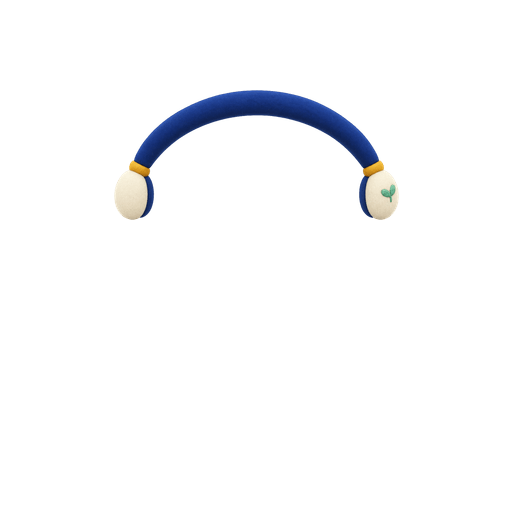
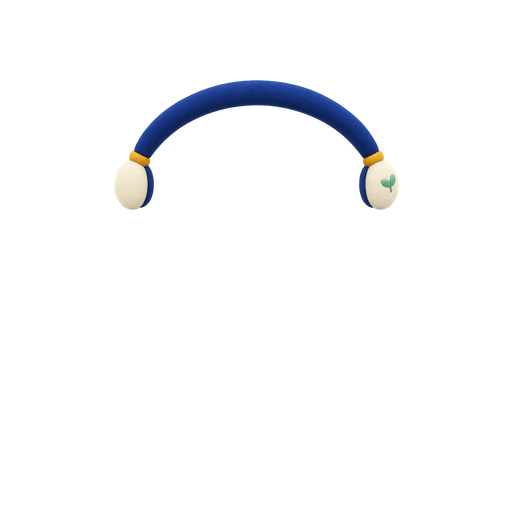
[Feat] 전신 의상은 머리만 있는 개구리 위에 입힌다 - 가디건 후드티 비옷 교복 넷은 소매와 바짓단이 그려져 있어 뒤에 전신 개구리를 두면 원래 팔다리가 옷 밖으로 삐져나왔다 아이템에 fullBody 를 두고 하나라도 입고 있으면 본체를 BASE_HEAD 로 바꿔 깐다 학사복은 기존 위치가 맞아 그대로다

Changed region(s): [[0.2188, 0.1562, 0.7812, 0.4375]]

diff --git a/test/screen/user/frog_character_test.dart b/test/screen/user/frog_character_test.dart
@@ -76,6 +76,55 @@ void main() {
     });
   }
 
+  group('전신 의상', () {
+    // 소매와 바짓단이 그려진 옷은 뒤에 전신 개구리를 두면 원래 팔다리가
+    // 옷 밖으로 삐져나온다. 그럴 때는 본체를 머리만 있는 그림으로 바꾼다.
+    test('입으면 본체가 머리만 있는 그림으로 바뀐다', () {
+      final layers = CosmeticMockData.loadout.resolveLayers(
+        equippedOverride: const {'OUTFIT': 'outfit_cardigan'},
+      );
+
+      expect(
+        layers.first.imageUrl,
+        CosmeticLoadoutModel.defaultBaseHeadImageUrl,
+      );
+    });
+
+    test('전신이 아닌 옷은 본체를 그대로 쓴다', () {
+      final layers = CosmeticMockData.loadout.resolveLayers(
+        equippedOverride: const {'OUTFIT': 'outfit_graduate'},
+      );
+
+      expect(layers.first.imageUrl, CosmeticLoadoutModel.defaultBaseImageUrl);
+    });
+
+    test('아무것도 안 입으면 본체를 그대로 쓴다', () {
+      final layers = CosmeticMockData.loadout.resolveLayers(
+        equippedOverride: const {},
+      );
+
+      expect(layers.first.imageUrl, CosmeticLoadoutModel.defaultBaseImageUrl);
+    });
+
+    test('전신 의상에 모자를 같이 써도 본체만 바뀐다', () {
+      final layers = CosmeticMockData.loadout.resolveLayers(
+        equippedOverride: const {
+          'OUTFIT': 'outfit_hoodie',
+          'HEAD': 'hat_beanie',
+        },
+      );
+
+      expect(
+        layers.first.imageUrl,
+        CosmeticLoadoutModel.defaultBaseHeadImageUrl,
+      );
+      expect(
+        [for (final layer in layers) layer.itemKey],
+        [null, 'outfit_hoodie', 'hat_beanie'],
+      );
+    });
+  });
+
   group('레이어 겹치는 순서', () {
     test('layerOrder 오름차순으로 뒤에서 앞 순서로 나온다', () {
       final layers = CosmeticMockData.loadout.resolveLayers(

diff --git a/lib/Screen/Cosmetic/Mock/CosmeticMockData.dart b/lib/Screen/Cosmetic/Mock/CosmeticMockData.dart
@@ -87,7 +87,7 @@ class CosmeticMockData {
     _item('hat_beanie', 'HEAD', '비니', level: 6),
     _item('bg_study', 'BACKGROUND', '공부방', level: 7),
     _item('bag_mini_backpack', 'BAG', '미니 백팩', level: 8),
-    _item('outfit_cardigan', 'OUTFIT', '가디건', level: 9),
+    _item('outfit_cardigan', 'OUTFIT', '가디건', level: 9, fullBody: true),
     _item('prop_study', 'HAND', '공부 소품', level: 10),
     _item('glasses_sun', 'FACE', '선글라스', level: 11),
     _item('hat_bucket', 'HEAD', '버킷햇', level: 12),
@@ -104,9 +104,9 @@ class CosmeticMockData {
     _item('bowtie', 'NECK', '나비넥타이'),
     _item('neck_medal', 'NECK', '메달'),
     _item('neck_camera', 'NECK', '카메라'),
-    _item('outfit_school', 'OUTFIT', '교복'),
-    _item('outfit_hoodie', 'OUTFIT', '후드티'),
-    _item('outfit_raincoat', 'OUTFIT', '비옷'),
+    _item('outfit_school', 'OUTFIT', '교복', fullBody: true),
+    _item('outfit_hoodie', 'OUTFIT', '후드티', fullBody: true),
+    _item('outfit_raincoat', 'OUTFIT', '비옷', fullBody: true),
     _item('bag_waist_pouch', 'BAG', '허리 가방'),
     _item('bag_crossbody_satchel', 'BAG', '크로스백'),
     _item('head_earmuffs_winter', 'HEAD', '겨울 귀마개'),
@@ -134,6 +134,7 @@ class CosmeticMockData {
     String nameKo, {
     int? level,
     String? setId,
+    bool fullBody = false,
   }) {
     return {
       'itemKey': itemKey,
@@ -143,6 +144,9 @@ class CosmeticMockData {
       'requiredLevel': level,
       'setId': setId,
       'conflictsWith': const <String>[],
+      // 소매와 바짓단이 그려진 옷이다. 뒤에 전신 개구리를 두면 원래 팔다리가
+      // 옷 밖으로 삐져나와서, 본체를 머리만 있는 그림으로 바꿔 깐다.
+      'fullBody': fullBody,
     };
   }
 }

diff --git a/lib/Model/Cosmetic/CosmeticLoadoutModel.dart b/lib/Model/Cosmetic/CosmeticLoadoutModel.dart
@@ -44,6 +44,13 @@ class CosmeticLoadoutModel {
   /// **기본값이지 기준값이 아니다.** 서버가 [baseImageUrl] 을 주면 그쪽을 쓴다.
   static const String defaultBaseImageUrl = 'assets/Cosmetic/BASE.png';
 
+  /// 머리만 있는 개구리.
+  ///
+  /// 전신 의상([CosmeticItemModel.fullBody])을 입었을 때 [defaultBaseImageUrl]
+  /// 대신 깐다. 그 옷에는 소매와 바짓단이 이미 그려져 있어서, 전신 개구리를
+  /// 뒤에 두면 원래 팔다리가 옷 밖으로 삐져나온다.
+  static const String defaultBaseHeadImageUrl = 'assets/Cosmetic/BASE_HEAD.png';
+
   /// 고정 포즈 개구리 그림.
   final String baseImageUrl;
 
@@ -201,6 +208,16 @@ class CosmeticLoadoutModel {
   }) {
     final current = equippedOverride ?? equipped;
 
+    // 전신 의상을 입고 있으면 본체를 머리만 있는 그림으로 바꾼다. 자리마다
+    // 하나씩만 걸리므로 그런 옷은 많아야 하나다.
+    final wearsFullBody = current.values.any(
+      (itemKey) => itemOf(itemKey)?.fullBody ?? false,
+    );
+    final resolvedBaseImageUrl =
+        wearsFullBody && baseImageUrl == defaultBaseImageUrl
+            ? defaultBaseHeadImageUrl
+            : baseImageUrl;
+
     // (층, 같은 층 안에서의 순서) 로 정렬한다. Dart 의 sort 는 안정 정렬이
     // 아니라서 같은 값이 나오면 순서가 흐트러진다. 순번을 직접 매긴다.
     final entries = <_OrderedLayer>[];
@@ -213,7 +230,7 @@ class CosmeticLoadoutModel {
         tieBreak: 1,
         sequence: sequence++,
         layer: CosmeticLayerModel(
-          imageUrl: baseImageUrl,
+          imageUrl: resolvedBaseImageUrl,
           layerOrder: resolvedBaseLayerOrder,
         ),
       ),

diff --git a/lib/Model/Cosmetic/CosmeticItemModel.dart b/lib/Model/Cosmetic/CosmeticItemModel.dart
@@ -37,6 +37,13 @@ class CosmeticItemModel {
   /// 지금 사용자가 가지고 있는지.
   final bool owned;
 
+  /// 개구리 몸 전체를 덮는 의상인지.
+  ///
+  /// 소매와 바짓단까지 그려져 있어서, 뒤에 전신 개구리를 두면 원래 팔다리가
+  /// 옷 밖으로 삐져나온다. 그래서 이런 옷을 입었을 때는 본체를 머리만 있는
+  /// [CosmeticLoadoutModel.defaultBaseHeadImageUrl] 로 바꿔 깐다.
+  final bool fullBody;
+
   const CosmeticItemModel({
     required this.itemKey,
     required this.slot,
@@ -46,6 +53,7 @@ class CosmeticItemModel {
     required this.setId,
     required this.conflictsWith,
     required this.owned,
+    this.fullBody = false,
   });
 
   /// 한 건을 읽는다. 키나 슬롯이 없으면 쓸 수 없는 줄이라 null 이다.
@@ -70,6 +78,7 @@ class CosmeticItemModel {
       setId: setId is String && setId.isNotEmpty ? setId : null,
       conflictsWith: _asStringList(json['conflictsWith']),
       owned: json['owned'] == true,
+      fullBody: json['fullBody'] == true,
     );
   }
 
@@ -95,6 +104,7 @@ class CosmeticItemModel {
       setId: setId,
       conflictsWith: conflictsWith,
       owned: owned ?? this.owned,
+      fullBody: fullBody,
     );
   }
 
